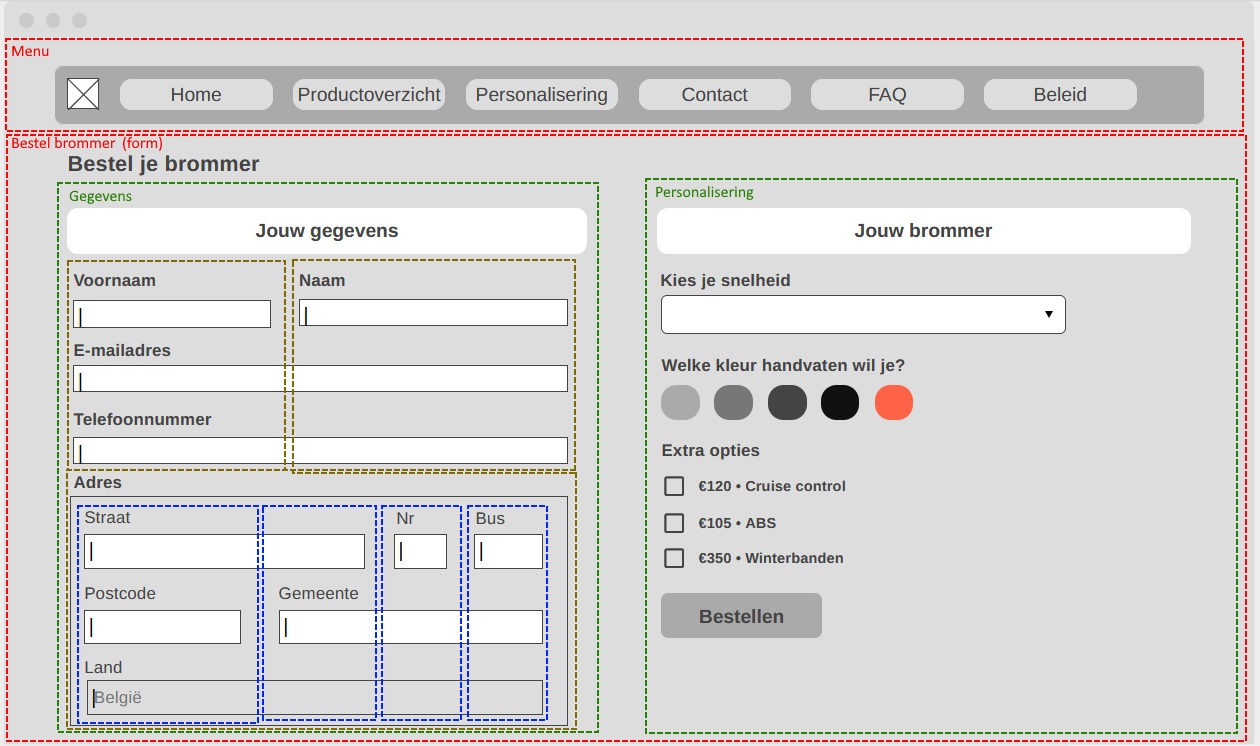
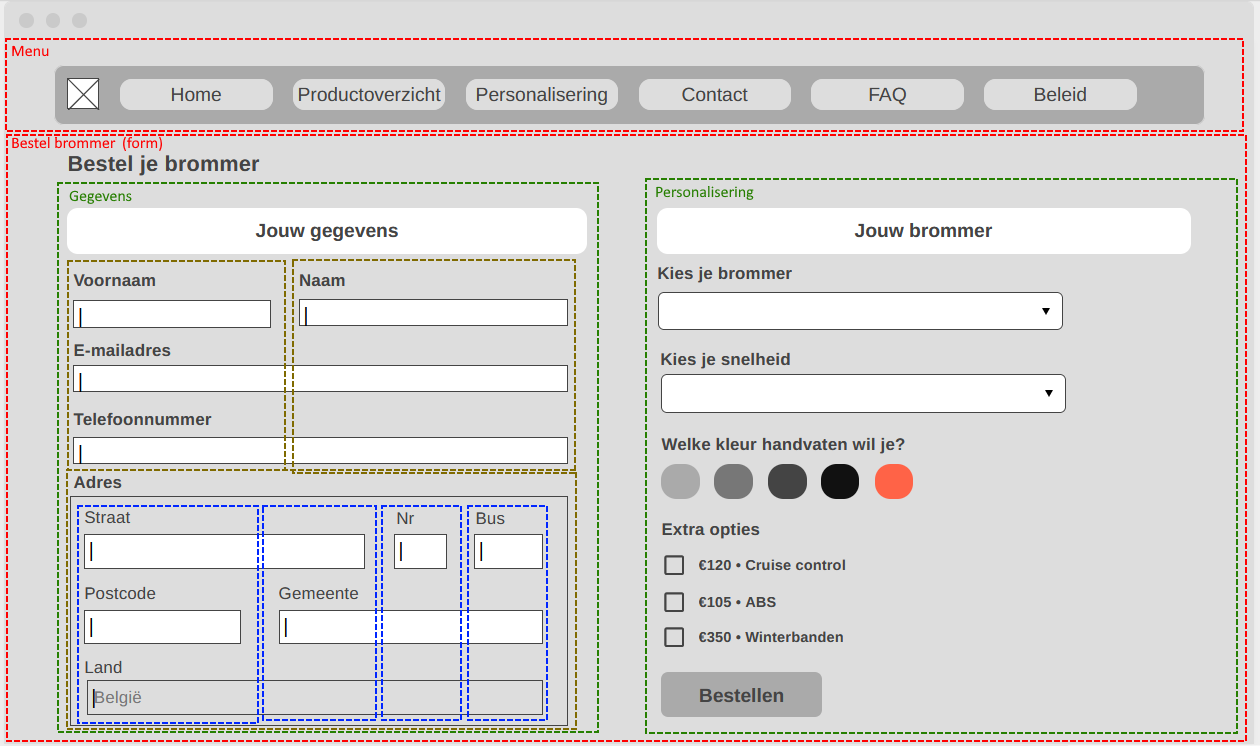
Continue styling page

diff --git a/examenproject/html/personalisering.html b/examenproject/html/personalisering.html
@@ -15,7 +15,7 @@
     <h1>Webshop de brommobiel</h1>
     <nav>
         <h2>Menu</h2>
-        <img class="logo" src="../media/logo.png" alt="" >
+        <img class="logo" src="../media/logo.png" alt="">
         <ul>
             <li>
                 <a href="../index.html">Home</a>
@@ -47,7 +47,126 @@
     </nav>
     <main>
         <section>
-            <h2>Personalisering</h2>
+            <h2>Bestel je brommer</h2>
+
+            <form id="bestelFormulier" action="bestelbevestiging.html" method="get">
+                <section class="bestelKolom" id="klantgegevens">
+                    <h3 class="sectieLabel">Jouw gegevens</h3>
+
+                    <!-- Voornaam -->
+                    <label for="voornaam">Voornaam</label>
+                    <input type="text" name="voornaam" id="voornaam" required>
+
+                    <!-- Achternaam -->
+                    <label for="achternaam">Achternaam</label>
+                    <input type="text" name="achternaam" id="achternaam" required>
+
+                    <!-- Email -->
+                    <fieldset class="anonymous" id="fsEmail">
+                        <label for="email">E-mail adres</label>
+                        <input type="email" name="email" id="email" required>
+                    </fieldset>
+
+                    <!-- Telefoonnummer -->
+                    <fieldset class="anonymous" id="fsTelefoonnummer">
+                        <label for="telefoonnummer">Telefoonnummer</label>
+                        <input type="tel" name="telefoonnummer" id="telefoonnummer" pattern="^0? [1-9] [0-9] {7,8}$"
+                            required>
+                    </fieldset>
+
+                    <!-- Adres -->
+                    <fieldset id="fsAdres">
+                        <legend>Adres</legend>
+
+                        <label for="adres">Adres</label>
+                        <input type="text" name="adres" id="adres" required>
+                    </fieldset>
+
+                </section>
+
+                <section class="bestelKolom" id="personalisatie">
+                    <h3 class="sectieLabel">Jouw brommer</h3>
+
+                    <!-- Kies brommer -->
+                    <label for="productKeuze">Kies je brommer</label>
+                    <select name="productKeuze" id="productKeuze" required>
+                        <!-- Elektrisch -->
+                        <option selected disabled>Klik om een brommer te kiezen</option>
+                        <optgroup label="Elektrisch">
+                            <option value="SegwayE125S">Segway E125S</option>
+                            <option value="SegwayE110SE">Segway E110SE</option>
+                            <option value="SegwayE110S">Segway E110S</option>
+                            <option value="SegwayB110S">Segway B110S</option>
+                            <option value="BrekrModelB">Brekr Model B</option>
+                            <option value="HorwinEK1">Horwin EK1</option>
+                            <option value="NIUNQISport">NIU NQI Sport</option>
+                            <option value="SuperSocoCUX">Super Soco CUX</option>
+                        </optgroup>
+
+                        <!-- Benzine -->
+                        <optgroup label="Benzine">
+                            <option value="SymOrbit2">Sym orbit 2</option>
+                            <option value="SymOrbit3">Sym orbit 3</option>
+                            <option value="AGMVX50L">AGM VX50l</option>
+                            <option value="PeugeotKisbeeActive">Peugeot Kisbee Active</option>
+                            <option value="PeugeotKisbeeStreet">Peugeot Kisbee Street</option>
+                            <option value="PeugeotDjango">Peugeot Django</option>
+                            <option value="PiaggoLiberty50S">Piaggo Liberty 50 S</option>
+                        </optgroup>
+
+                        <!-- LPG -->
+                        <optgroup label="LPG">
+                            <option value="VespaPrimavera">Vespa Primavera</option>
+                            <option value="VespaPrimaveraSport">Vespa Primavera Sport</option>
+                            <option value="VespaSprint">Vespa Sprint</option>
+                            <option value="VespaSprintSport">Vespa Sprint Sport</option>
+                            <option value="VespaSprintNotte">Vespa Sprint Notte</option>
+                            <option value="VespaSprintRacingSixties">Vespa Sprint Racing Sixties</option>
+                        </optgroup>
+
+                    </select>
+
+                    <!-- Kies snelheid -->
+                    <label for="klasse">Kies je snelheid</label>
+                    <select name="klasse" id="klasse" required>
+                        <option selected disabled>Klik om een snelheid te kiezen</option>
+                        <option value="A">Klasse A • 25 km/u</option>
+                        <option value="B">Klasse B • 45 km/u</option>
+                    </select>
+
+                    <!-- Kies kleur -->
+                    <fieldset>
+                        <legend>Kleur handvataen</legend>
+                        <label class="d-inline" for="rood">Rood</label>
+                        <input type="radio" name="kleur" id="rood">
+
+                        <label class="d-inline" for="groen">Groen</label>
+                        <input type="radio" name="kleur" id="groen">
+
+                        <label class="d-inline" for="geel">Geel</label>
+                        <input type="radio" name="kleur" id="geel">
+                    </fieldset>
+
+                    <!-- Kies extra opties -->
+                    <fieldset>
+                        <legend>Extra opties</legend>
+
+                        <!-- Cruise control - €125,00 -->
+                        <input type="checkbox" id="cruiseControl" name="cruiseControl" value="cruiseControl">
+                        <label class="d-inline" for="cruiseControl">€125 • Cruise control</label>
+
+                        <!-- ABS - €105 -->
+                        <input type="checkbox" id="abs" name="abs" value="abs">
+                        <label class="d-inline" for="abs">€105 • ABS</label>
+
+                        <!-- Winterbanden - €350 -->
+                        <input type="checkbox" id="winterbanden" name="winterbanden" value="winterbanden">
+                        <label class="d-inline" for="winterbanden">€350 • Winterbanden</label>
+                    </fieldset>
+
+
+                </section>
+            </form>
         </section>
     </main>
 </body>

diff --git a/examenproject/css/project.css b/examenproject/css/project.css
@@ -566,6 +566,39 @@ tr td:first-child {
   box-shadow: 0 0 5px 0 rgb(187, 186, 186);
   background-color: white;
 }
+
+/* Bestelpagina - personalisering.html */
+#bestelFormulier {
+  display: grid;
+
+  grid-template-areas: "klantGegevens personalisatie";
+  grid-template-columns: 5fr 5fr;
+
+  /* Margin & padding */
+  margin-top: 0;
+}
+
+#klantgegevens {
+  grid-area: klantGegevens;
+}
+
+#personalisatie {
+  grid-area: personalisatie;
+}
+
+.bestelKolom {
+  /* Margin & padding */
+  margin: 0 10px 0 10px;
+}
+.sectieLabel {
+  background: white;
+  border-radius: 10px;
+
+  /* Margin & padding */
+  margin-top: 0;
+  padding: 10px;
+}
+
 /* Overrides */
 .no-top-margin {
   margin-top: 0;
@@ -573,4 +606,8 @@ tr td:first-child {
 
 .hide {
   display: none;
+}
+
+.d-inline {
+  display: inline;
 }
